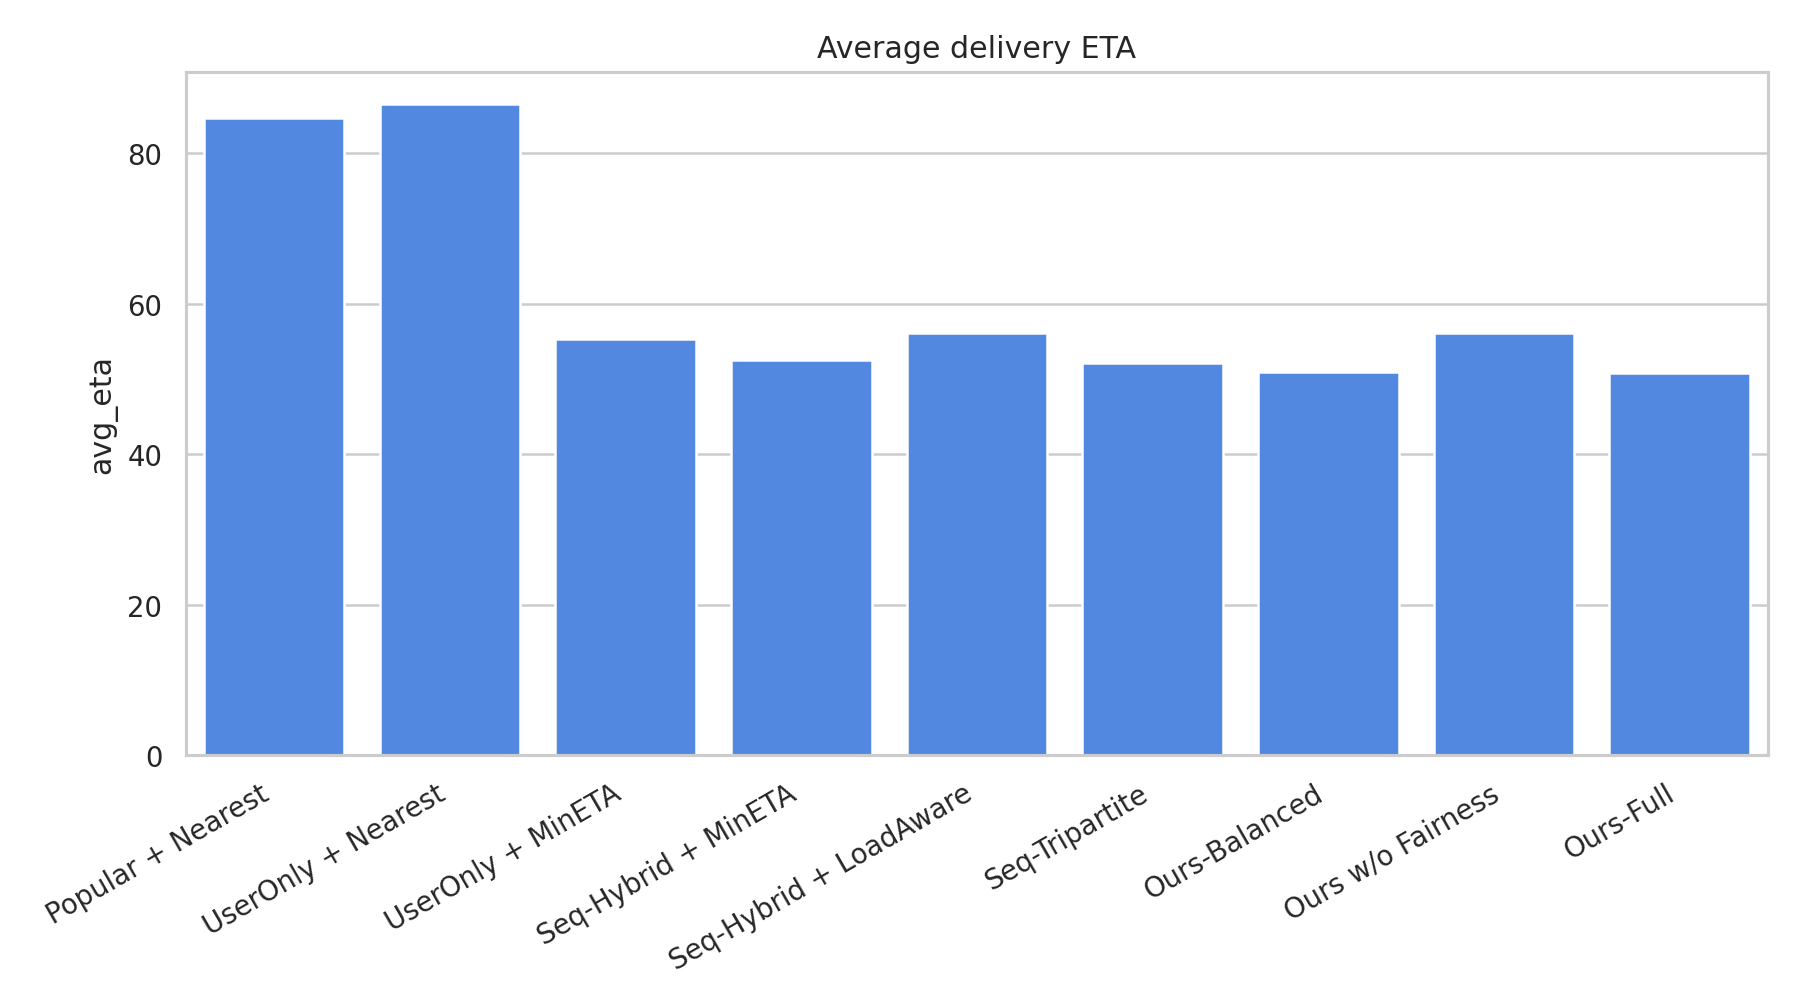
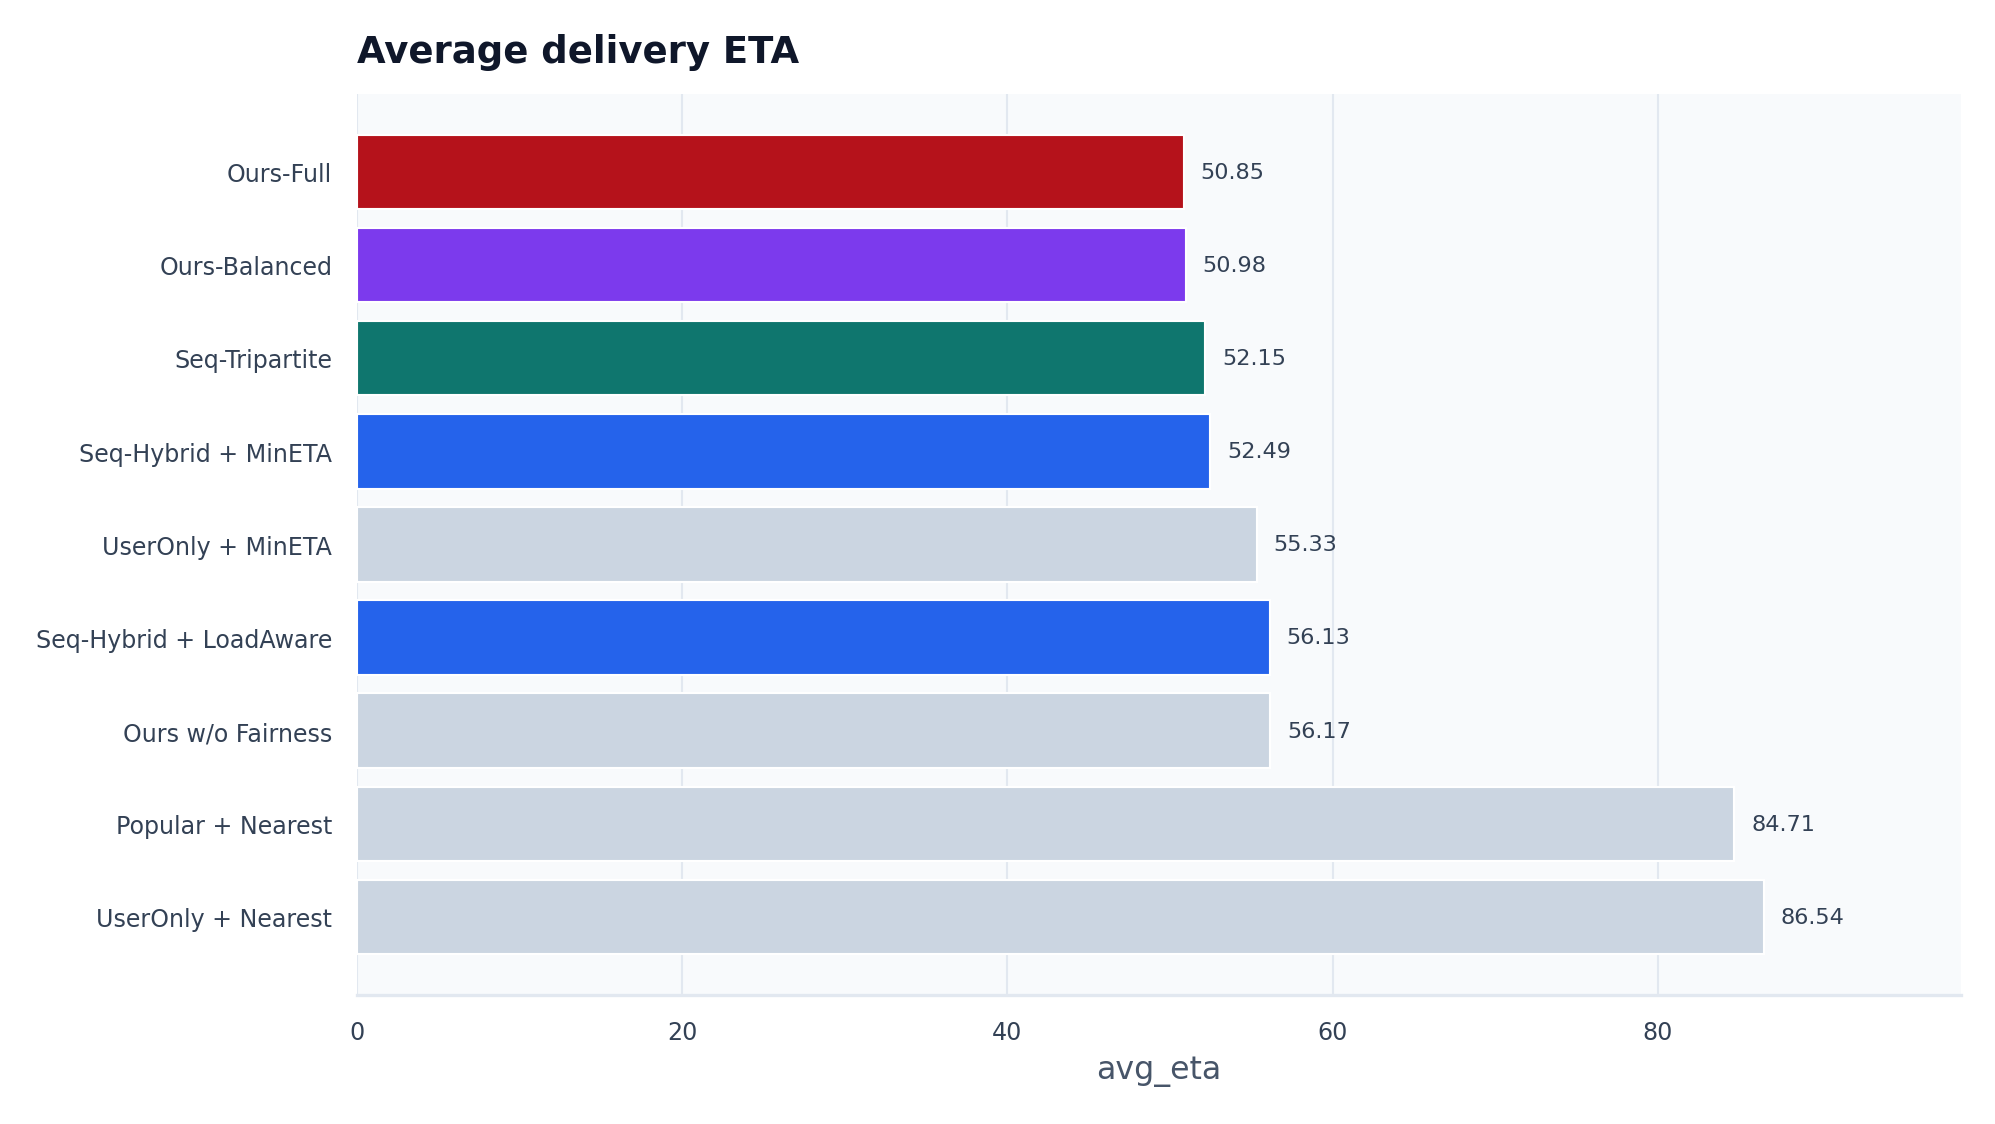
Modernize result figure styling

diff --git a/foodflow/figures.py b/foodflow/figures.py
@@ -9,40 +9,96 @@ import seaborn as sns
 from .io import ensure_dir
 
 
-def _save_bar(df: pd.DataFrame, x: str, y: str, title: str, path: Path, rotate: bool = True) -> None:
-    plt.figure(figsize=(10, 5.6))
-    sns.barplot(data=df, x=x, y=y, color="#3B82F6")
-    plt.title(title)
-    plt.xlabel("")
-    plt.ylabel(y)
-    if rotate:
-        plt.xticks(rotation=30, ha="right")
-    plt.tight_layout()
-    plt.savefig(path, dpi=180)
-    plt.close()
+HIGHLIGHT = {
+    "Seq-Hybrid": "#2563EB",
+    "Seq-Tripartite": "#0F766E",
+    "Ours-Full": "#B5121B",
+    "Ours-Balanced": "#7C3AED",
+}
+DEFAULT_COLOR = "#CBD5E1"
+TEXT_COLOR = "#0F172A"
+GRID_COLOR = "#E2E8F0"
+
+
+def _color_for(label: str) -> str:
+    for key, color in HIGHLIGHT.items():
+        if key in str(label):
+            return color
+    return DEFAULT_COLOR
+
+
+def _save_bar(
+    df: pd.DataFrame,
+    x: str,
+    y: str,
+    title: str,
+    path: Path,
+    higher_better: bool = True,
+) -> None:
+    plot_df = df[[x, y]].copy()
+    plot_df[y] = pd.to_numeric(plot_df[y], errors="coerce").fillna(0.0)
+    plot_df = plot_df.sort_values(y, ascending=higher_better)
+    colors = [_color_for(label) for label in plot_df[x]]
+
+    fig_height = max(4.8, 0.48 * len(plot_df) + 1.6)
+    fig, ax = plt.subplots(figsize=(10.5, fig_height))
+    bars = ax.barh(plot_df[x].astype(str), plot_df[y], color=colors, edgecolor="white", linewidth=0.8)
+    ax.set_title(title, fontsize=14, fontweight="bold", color=TEXT_COLOR, loc="left", pad=12)
+    ax.set_xlabel(y, color="#475569")
+    ax.set_ylabel("")
+    ax.grid(axis="x", color=GRID_COLOR, linewidth=0.8)
+    ax.grid(axis="y", visible=False)
+    ax.spines[["top", "right", "left"]].set_visible(False)
+    ax.spines["bottom"].set_color(GRID_COLOR)
+    ax.tick_params(axis="both", colors="#334155", labelsize=9)
+
+    xmax = max(float(plot_df[y].max()), 1e-9)
+    ax.set_xlim(0, xmax * 1.14)
+    for bar, value in zip(bars, plot_df[y]):
+        ax.text(
+            bar.get_width() + xmax * 0.012,
+            bar.get_y() + bar.get_height() / 2,
+            f"{value:.4f}" if value < 10 else f"{value:.2f}",
+            va="center",
+            ha="left",
+            fontsize=8.5,
+            color="#334155",
+        )
+    fig.tight_layout()
+    fig.savefig(path, dpi=190, facecolor="white")
+    plt.close(fig)
 
 
 def _save_tripartite_summary(offline: pd.DataFrame, sim: pd.DataFrame, path: Path) -> None:
-    fig, axes = plt.subplots(1, 3, figsize=(16, 4.8))
-    sns.barplot(data=offline, x="model", y="Recall@20", ax=axes[0], color="#2563EB")
-    axes[0].set_title("User: Recall@20")
-    axes[0].set_xlabel("")
-    axes[0].tick_params(axis="x", rotation=35)
+    fig, axes = plt.subplots(1, 3, figsize=(17, 5.2))
+    panels = [
+        (offline, "model", "Recall@20", "User side: Recall@20", True),
+        (offline, "model", "Coverage@20", "Merchant side: Coverage@20", True),
+        (sim, "policy", "platform_utility", "Platform side: Utility", True),
+    ]
+    for ax, (df, label_col, metric_col, title, higher_better) in zip(axes, panels):
+        if metric_col not in df.columns:
+            ax.axis("off")
+            continue
+        plot_df = df[[label_col, metric_col]].copy()
+        plot_df[metric_col] = pd.to_numeric(plot_df[metric_col], errors="coerce").fillna(0.0)
+        plot_df = plot_df.sort_values(metric_col, ascending=False).head(5).sort_values(metric_col)
+        colors = [_color_for(label) for label in plot_df[label_col]]
+        ax.barh(plot_df[label_col].astype(str), plot_df[metric_col], color=colors, edgecolor="white")
+        ax.set_title(title, fontsize=12, fontweight="bold", loc="left", color=TEXT_COLOR)
+        ax.set_xlabel("")
+        ax.set_ylabel("")
+        ax.grid(axis="x", color=GRID_COLOR)
+        ax.spines[["top", "right", "left"]].set_visible(False)
+        ax.spines["bottom"].set_color(GRID_COLOR)
+        xmax = max(float(plot_df[metric_col].max()), 1e-9)
+        ax.set_xlim(0, xmax * 1.18)
+        for y_pos, value in enumerate(plot_df[metric_col]):
+            ax.text(value + xmax * 0.02, y_pos, f"{value:.4f}", va="center", fontsize=8.5, color="#334155")
 
-    if "Coverage@20" in offline.columns:
-        sns.barplot(data=offline, x="model", y="Coverage@20", ax=axes[1], color="#059669")
-        axes[1].set_title("Merchant: Coverage@20")
-        axes[1].set_xlabel("")
-        axes[1].tick_params(axis="x", rotation=35)
-
-    sns.barplot(data=sim, x="policy", y="platform_utility", ax=axes[2], color="#B5121B")
-    axes[2].set_title("Platform: Utility")
-    axes[2].set_xlabel("")
-    axes[2].tick_params(axis="x", rotation=35)
-
-    fig.suptitle("FoodFlow tripartite scorecard", fontsize=15, fontweight="bold")
+    fig.suptitle("FoodFlow tripartite scorecard", fontsize=16, fontweight="bold", color=TEXT_COLOR)
     fig.tight_layout()
-    fig.savefig(path, dpi=180)
+    fig.savefig(path, dpi=190, facecolor="white")
     plt.close(fig)
 
 
@@ -52,6 +108,16 @@ def generate_figures(results_dir: Path, figures_dir: Path) -> list[Path]:
     offline_path = results_dir / "offline_metrics.csv"
     sim_path = results_dir / "simulation_metrics.csv"
     sns.set_theme(style="whitegrid", font="DejaVu Sans")
+    plt.rcParams.update(
+        {
+            "axes.facecolor": "#F8FAFC",
+            "figure.facecolor": "white",
+            "axes.edgecolor": GRID_COLOR,
+            "axes.labelcolor": "#475569",
+            "xtick.color": "#334155",
+            "ytick.color": "#334155",
+        }
+    )
 
     if offline_path.exists():
         offline = pd.read_csv(offline_path)
@@ -63,27 +129,47 @@ def generate_figures(results_dir: Path, figures_dir: Path) -> list[Path]:
         ]:
             if metric in offline.columns:
                 out = figures_dir / filename
-                _save_bar(offline, "model", metric, title, out)
+                _save_bar(offline, "model", metric, title, out, higher_better=metric != "ExposureGini")
                 made.append(out)
 
         if {"NDCG@20", "ExposureGini"}.issubset(offline.columns):
-            plt.figure(figsize=(7.5, 5.2))
-            sns.scatterplot(data=offline, x="NDCG@20", y="ExposureGini", hue="model", s=90)
-            plt.title("Accuracy-Fairness trade-off")
-            plt.tight_layout()
+            fig, ax = plt.subplots(figsize=(8.2, 5.6))
+            sns.scatterplot(
+                data=offline,
+                x="NDCG@20",
+                y="ExposureGini",
+                hue="model",
+                palette={label: _color_for(label) for label in offline["model"].astype(str)},
+                s=110,
+                ax=ax,
+            )
+            ax.set_title("Accuracy-Fairness trade-off", fontsize=14, fontweight="bold", loc="left")
+            ax.grid(color=GRID_COLOR)
+            ax.legend(frameon=False, bbox_to_anchor=(1.02, 1), loc="upper left")
+            fig.tight_layout()
             out = figures_dir / "tradeoff_ndcg_gini.png"
-            plt.savefig(out, dpi=180)
-            plt.close()
+            fig.savefig(out, dpi=190, facecolor="white")
+            plt.close(fig)
             made.append(out)
 
         if {"Recall@20", "Coverage@20"}.issubset(offline.columns):
-            plt.figure(figsize=(7.5, 5.2))
-            sns.scatterplot(data=offline, x="Recall@20", y="Coverage@20", hue="model", s=90)
-            plt.title("Accuracy-Coverage trade-off")
-            plt.tight_layout()
+            fig, ax = plt.subplots(figsize=(8.2, 5.6))
+            sns.scatterplot(
+                data=offline,
+                x="Recall@20",
+                y="Coverage@20",
+                hue="model",
+                palette={label: _color_for(label) for label in offline["model"].astype(str)},
+                s=110,
+                ax=ax,
+            )
+            ax.set_title("Accuracy-Coverage trade-off", fontsize=14, fontweight="bold", loc="left")
+            ax.grid(color=GRID_COLOR)
+            ax.legend(frameon=False, bbox_to_anchor=(1.02, 1), loc="upper left")
+            fig.tight_layout()
             out = figures_dir / "tradeoff_recall_coverage.png"
-            plt.savefig(out, dpi=180)
-            plt.close()
+            fig.savefig(out, dpi=190, facecolor="white")
+            plt.close(fig)
             made.append(out)
 
     if sim_path.exists():
@@ -97,10 +183,17 @@ def generate_figures(results_dir: Path, figures_dir: Path) -> list[Path]:
         ]:
             if metric in sim.columns:
                 out = figures_dir / filename
-                _save_bar(sim, "policy", metric, title, out)
+                _save_bar(
+                    sim,
+                    "policy",
+                    metric,
+                    title,
+                    out,
+                    higher_better=metric in {"platform_utility"},
+                )
                 made.append(out)
         if {"avg_eta", "platform_utility", "completed_orders"}.issubset(sim.columns):
-            plt.figure(figsize=(8.2, 5.2))
+            fig, ax = plt.subplots(figsize=(8.8, 5.6))
             sns.scatterplot(
                 data=sim,
                 x="avg_eta",
@@ -108,12 +201,16 @@ def generate_figures(results_dir: Path, figures_dir: Path) -> list[Path]:
                 hue="policy",
                 size="completed_orders",
                 sizes=(70, 240),
+                palette={label: _color_for(label) for label in sim["policy"].astype(str)},
+                ax=ax,
             )
-            plt.title("ETA-Utility trade-off")
-            plt.tight_layout()
+            ax.set_title("ETA-Utility trade-off", fontsize=14, fontweight="bold", loc="left")
+            ax.grid(color=GRID_COLOR)
+            ax.legend(frameon=False, bbox_to_anchor=(1.02, 1), loc="upper left")
+            fig.tight_layout()
             out = figures_dir / "tradeoff_eta_utility.png"
-            plt.savefig(out, dpi=180)
-            plt.close()
+            fig.savefig(out, dpi=190, facecolor="white")
+            plt.close(fig)
             made.append(out)
 
     if offline_path.exists() and sim_path.exists():
